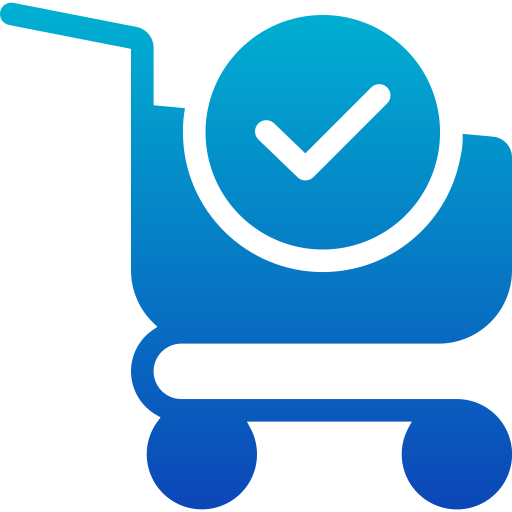
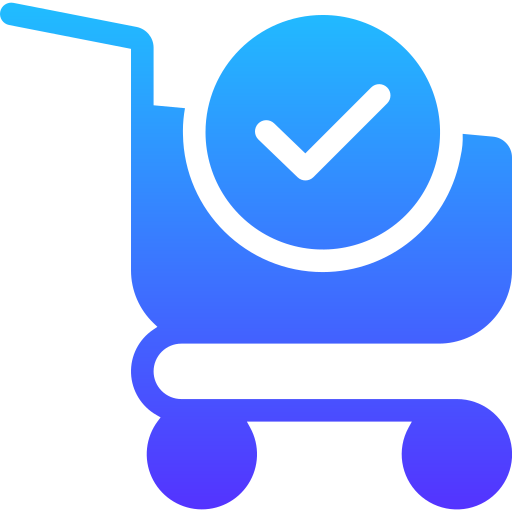
save work on main v6.0

diff --git a/src/shared/middlewares/ProtectedRoute.tsx b/src/shared/middlewares/ProtectedRoute.tsx
@@ -1,34 +1,53 @@
-import { Navigate, useLocation } from 'react-router-dom'
-import { isAuthenticated } from '../infra/auth/token'
-import { useState, useEffect } from 'react'
+// src/shared/middlewares/ProtectedRoute.tsx
+import { Navigate, useLocation } from "react-router-dom";
+import { isAuthenticated } from "../infra/auth/token"; // สมมติว่ามีฟังก์ชัน getRole() หรือ get user จาก context
+import { useState, useEffect } from "react";
 
-export const ProtectedRoute: React.FC<React.PropsWithChildren> = ({ children }) => {
-  const location = useLocation()
-  const [isLoading, setIsLoading] = useState(true)
-  const [isAuth, setIsAuth] = useState(false)
+// สมมติว่าคุณรับ user role ผ่าน Props, Context หรือดึงจาก Token (ปรับตามการใช้งานจริงของคุณได้เลย)
+interface ProtectedRouteProps extends React.PropsWithChildren {
+  allowedRoles?: string[];
+  userRole?: string; // หรือรับจาก Context / LocalStorage
+}
+
+export const ProtectedRoute: React.FC<ProtectedRouteProps> = ({
+  children,
+  allowedRoles,
+  userRole,
+}) => {
+  const location = useLocation();
+  const [isLoading, setIsLoading] = useState(true);
+  const [isAuth, setIsAuth] = useState(false);
 
   useEffect(() => {
     const checkAuth = () => {
-      const auth = isAuthenticated()
-      setIsAuth(auth)
-      setIsLoading(false)
-    }
-    checkAuth()
-  }, [])
+      const auth = isAuthenticated();
+      setIsAuth(auth);
+      setIsLoading(false);
+    };
+    checkAuth();
+  }, []);
 
   if (isLoading) {
     return (
       <div className="flex items-center justify-center min-h-screen">
         <div className="animate-spin rounded-full h-12 w-12 border-b-2 border-emerald-600"></div>
       </div>
-    )
+    );
   }
 
-  // ยังไม่ได้ login หรือ token หมดอายุ
+  // 1. ยังไม่ได้ login หรือ token หมดอายุ
   if (!isAuth) {
-    return <Navigate to="/login" replace state={{ from: location.pathname }} />
+    return <Navigate to="/login" replace state={{ from: location.pathname }} />;
   }
 
-  // login และ signin counter เรียบร้อย
-  return <>{children}</>
-}
+  // 2. เช็ค Role ว่ามีสิทธิ์เข้าหน้านี้ไหม (ถ้าหน้านี้มีการบังคับ allowedRoles)
+  if (allowedRoles && allowedRoles.length > 0) {
+    // ถ้าไม่มี role หรือ role ไม่ตรงกับที่อนุญาต ให้เตะกลับไปหน้า Home
+    if (!userRole || !allowedRoles.includes(userRole)) {
+      return <Navigate to="/home" replace />; // หรือสร้างหน้า /unauthorized
+    }
+  }
+
+  // ผ่านทั้งหมด ให้เข้าใช้งานได้
+  return <>{children}</>;
+};

diff --git a/src/modules/home/Home.tsx b/src/modules/home/Home.tsx
@@ -131,45 +131,44 @@ export default function Home() {
             </div>
           ) : (
             // 🌟 ปรับ Grid ให้คอลัมน์น้อยลง = การ์ดใหญ่ขึ้น (max 3-4 คอลัมน์จอใหญ่) พร้อมเพิ่ม Gap เป็น gap-8
-            <div className="grid grid-cols-1 md:grid-cols-1 lg:grid-cols-4 2xl:grid-cols-4 gap-2">
+            <div className="grid grid-cols-1 sm:grid-cols-2 lg:grid-cols-3 xl:grid-cols-4 gap-4 sm:gap-6">
               {mooKrataMenus.map((menu) => (
                 <div
                   key={menu.id}
                   className="bg-white dark:bg-gray-800 rounded-2xl shadow-sm hover:shadow-xl transition-all duration-300 overflow-hidden border border-gray-200 dark:border-gray-700 flex flex-col group"
                 >
-                  {/* 🌟 ปรับความสูงรูปภาพให้ใหญ่เต็มตา (h-64 มือถือ, h-72 จอใหญ่) */}
-                  <div className="aspect-[5/5] w-full overflow-hidden relative bg-gray-100 dark:bg-gray-700">
+                  {/* 🌟 2. ปรับสัดส่วนรูปเป็น aspect-[4/3] จะทำให้ดูเป็นผืนผ้าสวยกว่าจัตุรัสเดิม */}
+                  <div className="aspect-[4/3] w-full overflow-hidden relative bg-gray-50 dark:bg-gray-700 flex items-center justify-center">
                     <img
                       src={menu.image}
                       alt={menu.name}
+                      // 💡 ทริค: ถ้าอยากให้ "รูปแสดงเต็มใบ 100% ไม่โดนตัดขอบ" ให้เปลี่ยน object-cover เป็น object-contain ครับ
                       className="w-full h-full object-cover group-hover:scale-110 transition-transform duration-500"
                     />
-                    <div className="absolute top-4 right-4 bg-emerald-500 text-white text-base font-bold px-4 py-1.5 rounded-full shadow-lg">
+                    <div className="absolute top-3 right-3 sm:top-4 sm:right-4 bg-emerald-500 text-white text-sm sm:text-base font-bold px-3 py-1 sm:px-4 sm:py-1.5 rounded-full shadow-lg">
                       ฿{menu.price}
                     </div>
                   </div>
 
-                  <div className="p-6 flex flex-col flex-grow">
-                    {/* 🌟 ขยายขนาดชื่อเมนูเป็น text-xl */}
-                    <h3 className="text-xl font-bold text-gray-800 dark:text-white mb-3 line-clamp-2">
+                  {/* 🌟 3. ปรับ Padding และ Font ให้ยืดหยุ่นตามหน้าจอ */}
+                  <div className="p-4 sm:p-6 flex flex-col flex-grow">
+                    <h3 className="text-lg sm:text-xl font-bold text-gray-800 dark:text-white mb-2 sm:mb-3 line-clamp-2">
                       {menu.name}
                     </h3>
 
-                    <div className="mb-6 flex-grow">
-                      {/* 🌟 ขยายขนาดคำอธิบายเป็น text-base */}
-                      <p className="text-base text-gray-500 dark:text-gray-400 line-clamp-3">
+                    <div className="mb-4 sm:mb-6 flex-grow">
+                      <p className="text-sm sm:text-base text-gray-500 dark:text-gray-400 line-clamp-3">
                         {menu.description || "ไม่มีรายละเอียดเมนู"}
                       </p>
                     </div>
 
-                    {/* 🌟 ขยายปุ่มให้ใหญ่ขึ้น (py-3) และตัวหนังสือใหญ่ขึ้น */}
                     <button
                       onClick={(e) => handleAddToCart(e, menu)}
-                      className="w-full py-3 bg-emerald-500 hover:bg-emerald-600 active:scale-95 text-white text-base font-semibold rounded-xl shadow-md transition-all duration-200 flex items-center justify-center gap-2 mt-auto"
+                      className="w-full py-2.5 sm:py-3 bg-emerald-500 hover:bg-emerald-600 active:scale-95 text-white text-sm sm:text-base font-semibold rounded-xl shadow-md transition-all duration-200 flex items-center justify-center gap-2 mt-auto"
                     >
                       <span>สั่งชุดนี้</span>
                       <svg
-                        className="w-6 h-6"
+                        className="w-5 h-5 sm:w-6 sm:h-6"
                         fill="none"
                         stroke="currentColor"
                         viewBox="0 0 24 24"

diff --git a/src/modules/settingsData/route.tsx b/src/modules/settingsData/route.tsx
@@ -1,3 +1,4 @@
+/* eslint-disable @typescript-eslint/no-explicit-any */
 import { Route } from "react-router-dom";
 import Dashboard from "./dashboards/Dashboard";
 import UserSetting from "./users/UserSetting";
@@ -7,13 +8,14 @@ import { ProtectedRoute } from "../../shared/middlewares/ProtectedRoute";
 import Settingsdata from ".";
 import SystemPage from "./systems/SystemPage";
 
-export const settingsDataRoutes = () => (
+export const settingsDataRoutes = (user: any) => (
   <>
     <Route
       key="settingsData"
       path="/settingsData"
       element={
-        <ProtectedRoute>
+        // ส่ง allowedRoles และ userRole เข้าไปเช็ค
+        <ProtectedRoute allowedRoles={["admin"]} userRole={user?.role}>
           <Settingsdata />
         </ProtectedRoute>
       }
@@ -22,7 +24,7 @@ export const settingsDataRoutes = () => (
       key="dashboard"
       path="/settingsData/dashboards"
       element={
-        <ProtectedRoute>
+        <ProtectedRoute allowedRoles={["admin"]} userRole={user?.role}>
           <Dashboard />
         </ProtectedRoute>
       }
@@ -31,7 +33,7 @@ export const settingsDataRoutes = () => (
       key="users"
       path="/settingsData/users"
       element={
-        <ProtectedRoute>
+        <ProtectedRoute allowedRoles={["admin"]} userRole={user?.role}>
           <UserSetting />
         </ProtectedRoute>
       }
@@ -40,7 +42,7 @@ export const settingsDataRoutes = () => (
       key="menu"
       path="/settingsData/menu"
       element={
-        <ProtectedRoute>
+        <ProtectedRoute allowedRoles={["admin"]} userRole={user?.role}>
           <MenuSetting />
         </ProtectedRoute>
       }
@@ -49,7 +51,7 @@ export const settingsDataRoutes = () => (
       key="orders"
       path="/settingsData/orders"
       element={
-        <ProtectedRoute>
+        <ProtectedRoute allowedRoles={["admin"]} userRole={user?.role}>
           <OrderSetting />
         </ProtectedRoute>
       }
@@ -58,7 +60,7 @@ export const settingsDataRoutes = () => (
       key="systems"
       path="/settingsData/systems"
       element={
-        <ProtectedRoute>
+        <ProtectedRoute allowedRoles={["admin"]} userRole={user?.role}>
           <SystemPage />
         </ProtectedRoute>
       }

diff --git a/src/shared/ui/App.tsx b/src/shared/ui/App.tsx
@@ -212,17 +212,19 @@ export default function App() {
     try {
       const lineIdToken = liff.getIDToken();
       if (!lineIdToken)
-        throw new Error("ไม่พบ ID Token (ลืมเปิด openid ในระบบ LINE Developers หรือเปล่า?)");
+        throw new Error(
+          "ไม่พบ ID Token (ลืมเปิด openid ในระบบ LINE Developers หรือเปล่า?)",
+        );
 
       // 🚀 1. ยิง API ขอ Profile จาก LINE และ ยิง API ไป Backend ของคุณ "พร้อมกัน"
       const [profile, res] = await Promise.all([
         liff.getProfile(),
-        postLineAuth(lineIdToken)
+        postLineAuth(lineIdToken),
       ]);
 
       if (!profile) throw new Error("ดึง Profile จาก LINE ไม่สำเร็จ");
       if (!res.ok) throw new Error(`Backend ตอบกลับ Status: ${res.status}`);
-      
+
       const data = await res.json();
 
       if (!data.firebase_token)
@@ -304,7 +306,8 @@ export default function App() {
 
   const hasPermission = (item: MenuItem) => {
     if (!item.roles || item.roles.length === 0) return true;
-    return item.roles.includes(user?.role);
+    if (!user || !user.role) return false;
+    return item.roles.includes(user.role);
   };
 
   if (isAppLoading) {
@@ -312,7 +315,7 @@ export default function App() {
       <div className="flex flex-col h-screen w-full items-center justify-center bg-gray-50 dark:bg-gray-900">
         {/* วงกลมหมุนๆ */}
         <div className="w-10 h-10 border-4 border-gray-200 border-t-emerald-500 dark:border-gray-700 dark:border-t-emerald-400 rounded-full animate-spin mb-4 shadow-sm"></div>
-        
+
         {/* ข้อความกระพริบเบาๆ ให้ดูมีชีวิตชีวา */}
         <p className="text-gray-500 dark:text-gray-400 text-sm font-medium animate-pulse">
           กำลังเชื่อมต่อระบบ...
@@ -364,7 +367,7 @@ export default function App() {
           hasPermission={hasPermission}
         />
       </div>
-      
+
       {isBlocked && (
         <div className="fixed inset-0 z-[9999] flex items-center justify-center bg-black/80 backdrop-blur-sm px-4">
           <div className="bg-white dark:bg-gray-800 p-8 rounded-3xl shadow-2xl max-w-sm w-full text-center">

diff --git a/src/modules/order/route.tsx b/src/modules/order/route.tsx
@@ -1,15 +1,16 @@
+/* eslint-disable @typescript-eslint/no-explicit-any */
 import { Route} from "react-router-dom";
 import OrderList from "./OrderList";
 import OrderDetail from "./OrderDetail";
 import { ProtectedRoute } from "../../shared/middlewares/ProtectedRoute";
 
-export const orderRoutes = () => (
+export const orderRoutes = (user: any) => (
   <>
     <Route 
       key="order"
       path="/orders" 
       element={
-        <ProtectedRoute>
+        <ProtectedRoute allowedRoles={['admin']} userRole={user?.role}>
           <OrderList />
         </ProtectedRoute>
       }
@@ -19,7 +20,7 @@ export const orderRoutes = () => (
       key="order-detail"
       path="/orders/:orderId" 
       element={
-        <ProtectedRoute>
+        <ProtectedRoute allowedRoles={['admin']} userRole={user?.role}>
           <OrderDetail />
         </ProtectedRoute>
       }

diff --git a/src/modules/order_user/OrderUserDetail.tsx b/src/modules/order_user/OrderUserDetail.tsx
@@ -62,7 +62,7 @@ export default function OrderUserDetail() {
     }
   };
 
-  // 🌟 ฟังก์ชันกดส่งสลิปใหม่
+  const apiUrl = import.meta.env.VITE_API_URL;
   const handleResubmitSlip = async () => {
     if (!slipFile || !orderId) return;
 
@@ -75,7 +75,7 @@ export default function OrderUserDetail() {
       // ยิง API
       const token = await getFreshToken();
       const response = await fetch(
-        `http://localhost:8080/api/orders/orders_put/${orderId}/edit_slip`,
+        `${apiUrl}/api/orders/orders_put/${orderId}/edit_slip`,
         {
           method: "PUT",
           headers: {
@@ -130,7 +130,7 @@ export default function OrderUserDetail() {
   // เงื่อนไขตรวจสอบว่าต้องโชว์ UI ให้อัปสลิปใหม่หรือไม่
   const isRejectedPayment =
     order.status === "refuse" &&
-    order.cancel_reason === "การชำระเงินไม่ถูกต้อง";
+    order.cancel_reason === "การชำระเงินไม่ถูกต้อง กรุณาแก้ไขชำระเงินให้ถูกต้อง";
 
   return (
     <div className="h-full p-6 w-full overflow-y-auto bg-gray-50 dark:bg-gray-900 text-gray-800 dark:text-gray-100 relative">

diff --git a/src/app/routes.tsx b/src/app/routes.tsx
@@ -24,11 +24,11 @@ export const AppRoutes = ({ user, setUser }: { user: any, setUser: any }) => {
       />
       {loginRoutes(user, setUser)}
       {homeRoutes()}
-      {orderRoutes()}
+      {orderRoutes(user)}
       {orderUserRoutes()}
       {paymentRoutes()}
       {addressRoutes()}
-      {settingsDataRoutes()}
+      {settingsDataRoutes(user)}
       {listsDataRoutes()}
     </Routes>
   );

diff --git a/src/modules/payment/Payment.tsx b/src/modules/payment/Payment.tsx
@@ -145,6 +145,7 @@ export default function Payment() {
 
           if (defaultLocation) {
             setShippingAddress(defaultLocation);
+            setIsMeetup(defaultLocation.isMeetup || false);
           }
         }
       } catch (error) {
@@ -1064,7 +1065,7 @@ export default function Payment() {
               </div>
             )}
 
-            {!isMeetup == true && (
+            {!isMeetup && (
               <div className="bg-white dark:bg-gray-800 rounded-2xl shadow-md p-6">
                 <h2 className="text-xl font-bold text-gray-800 dark:text-white mb-4">
                   อุปกรณ์สำหรับปิ้งย่าง 🍳